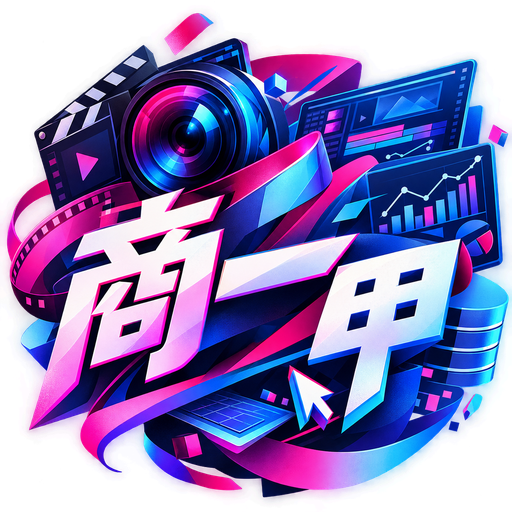
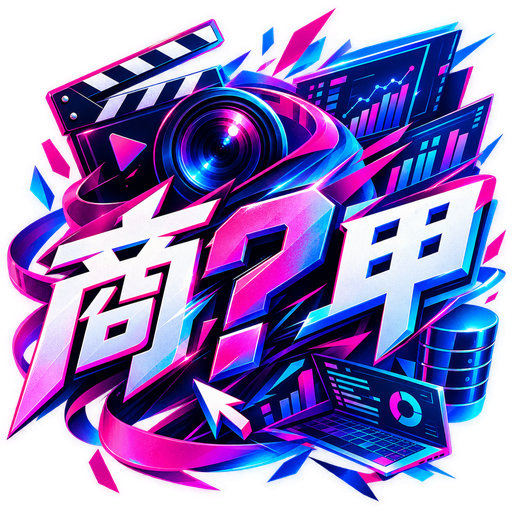
更新 App 圖示（商?甲），自動產生 180／192／512 尺寸；主畫面名稱改為「商?甲」

diff --git a/index.html b/index.html
@@ -3,13 +3,13 @@
 <head>
   <meta charset="utf-8">
   <meta name="viewport" content="width=device-width, initial-scale=1, viewport-fit=cover">
-  <title>商一甲</title>
+  <title>商?甲</title>
   <meta name="description" content="教室內掃區清潔檢查地圖、工作分配、座位表與線上選位、隨機抽籤。">
   <meta name="theme-color" content="#ffffff">
   <meta name="apple-mobile-web-app-capable" content="yes">
-  <meta name="apple-mobile-web-app-title" content="商一甲">
-  <link rel="icon" type="image/png" href="icon_192.png?v=2">
-  <link rel="apple-touch-icon" href="icon_180.png?v=2">
+  <meta name="apple-mobile-web-app-title" content="商?甲">
+  <link rel="icon" type="image/png" href="icon_192.png?v=3">
+  <link rel="apple-touch-icon" href="icon_180.png?v=3">
   <link rel="manifest" href="manifest.webmanifest">
   <meta http-equiv="Cache-Control" content="no-cache">
   <!-- 每次開啟都載入最新版本（加入主畫面後也一樣），不使用快取的舊檔 -->
